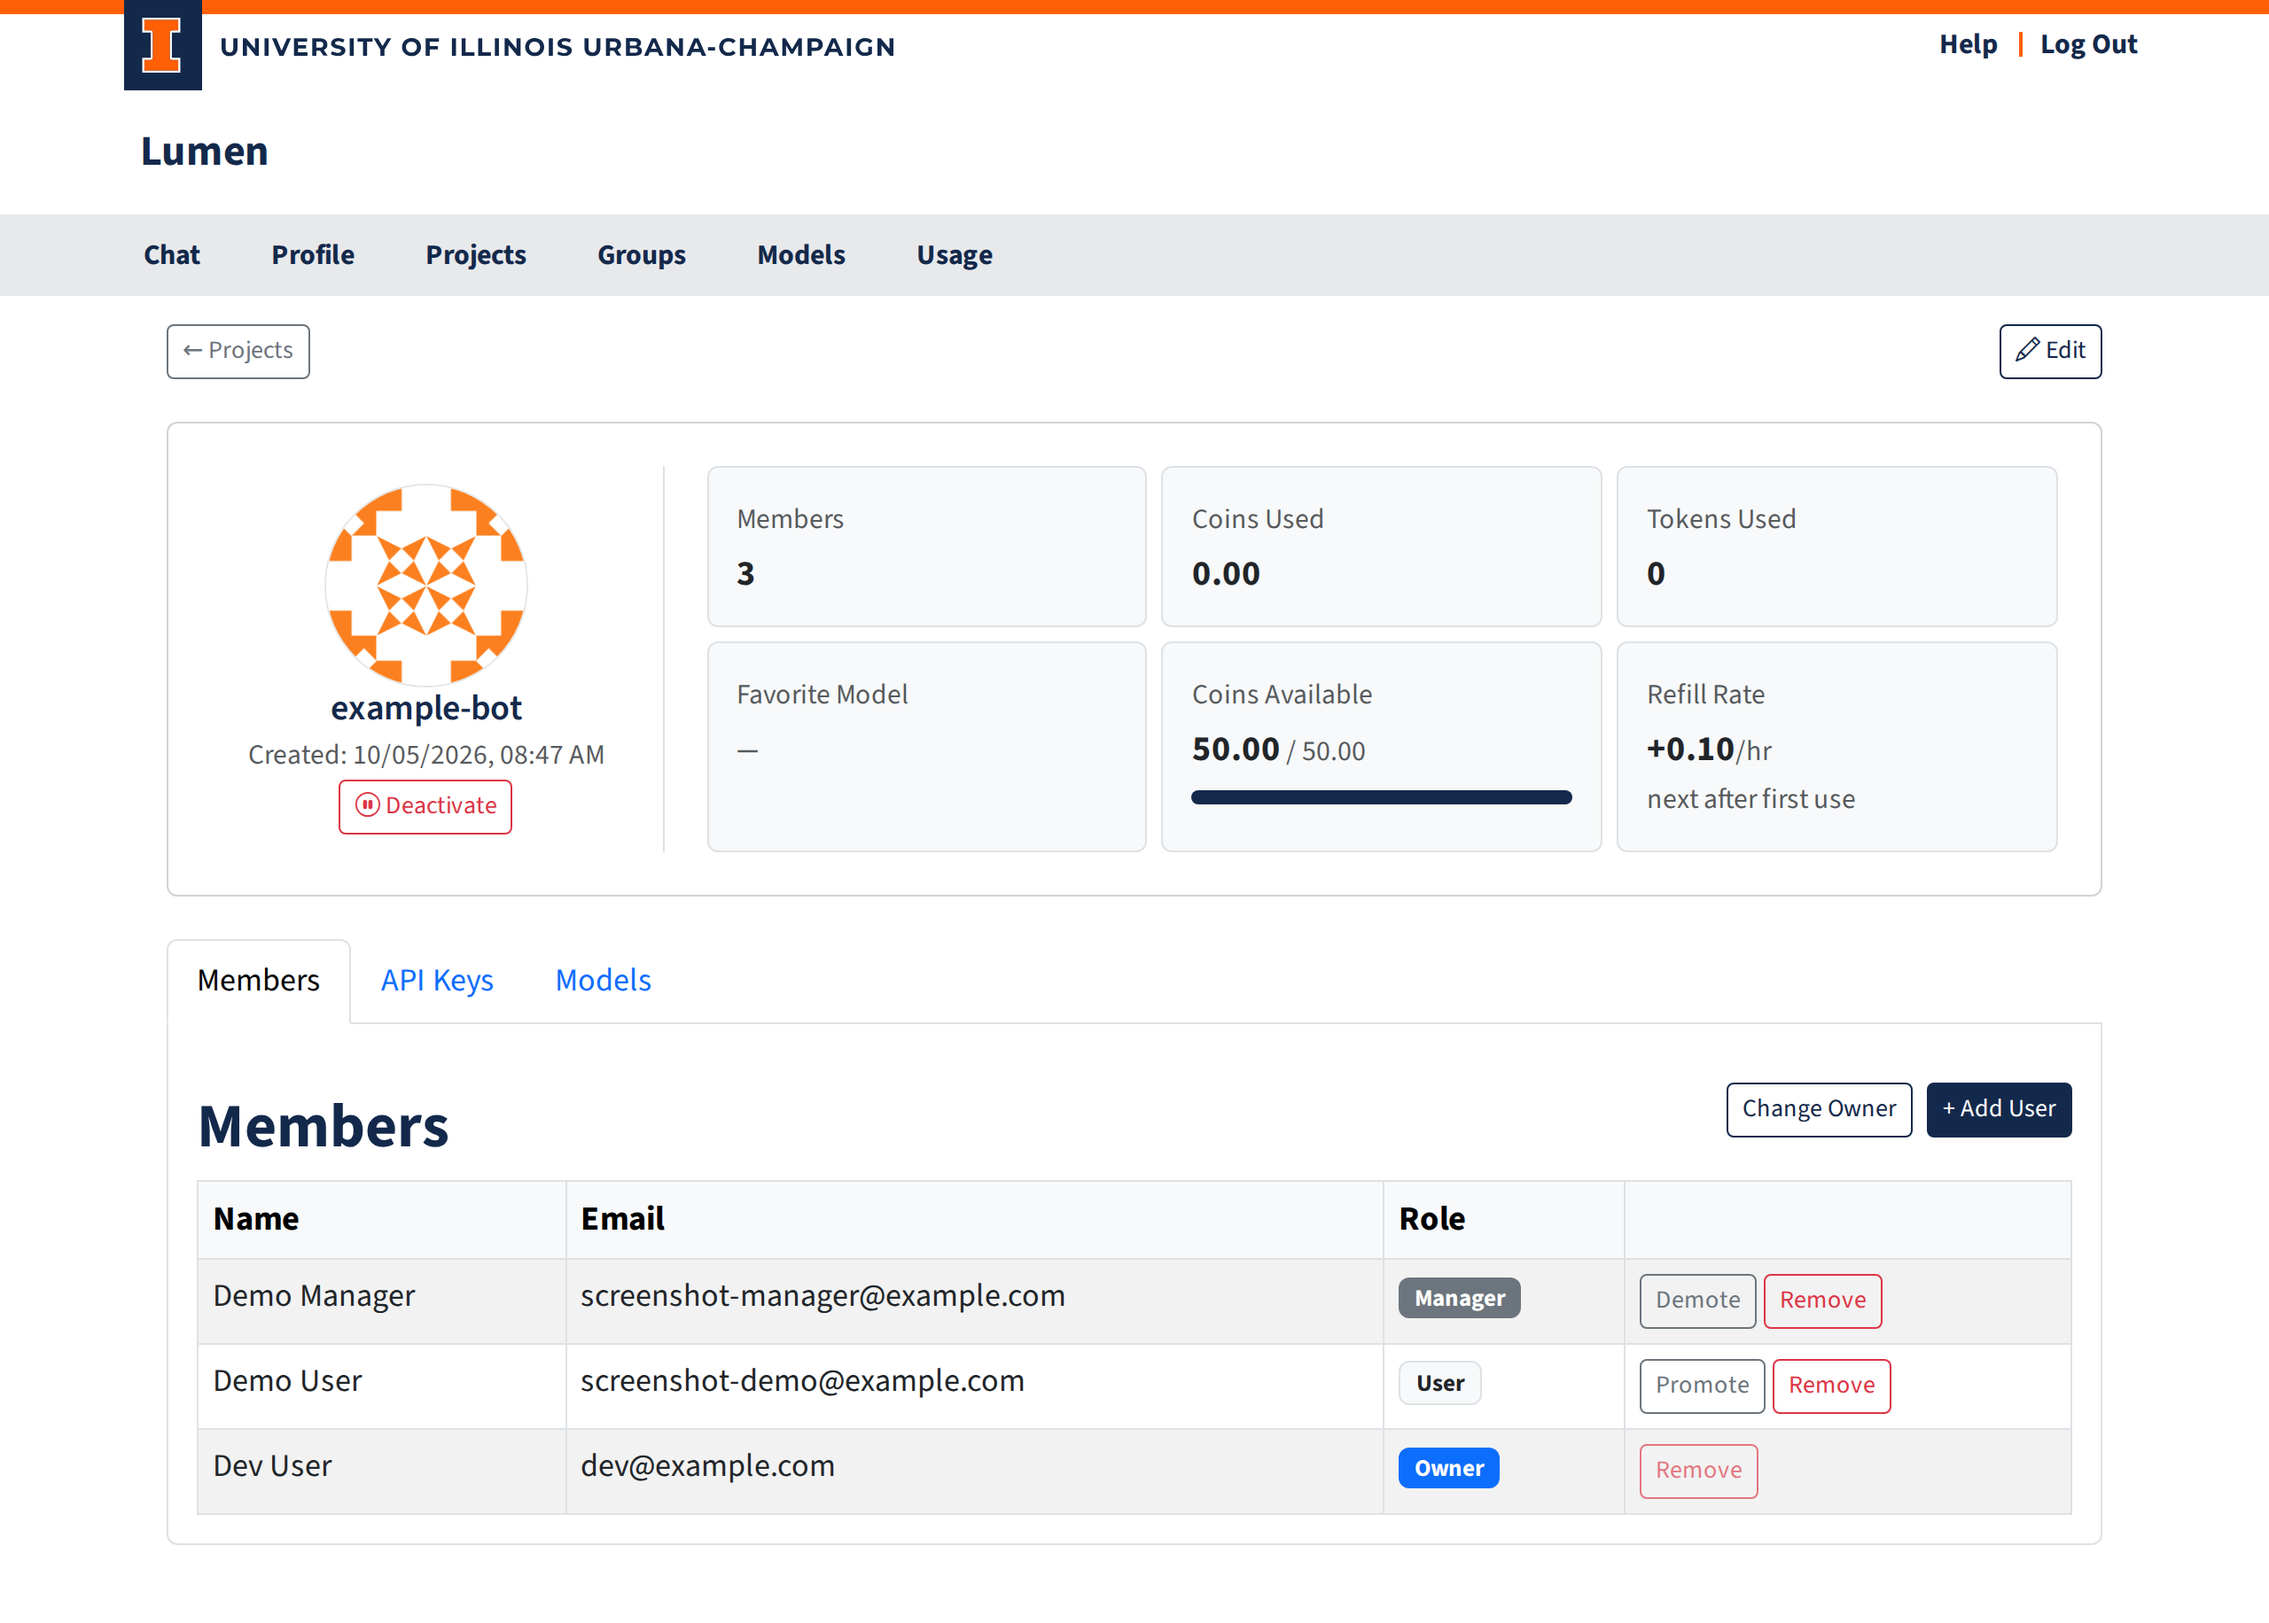
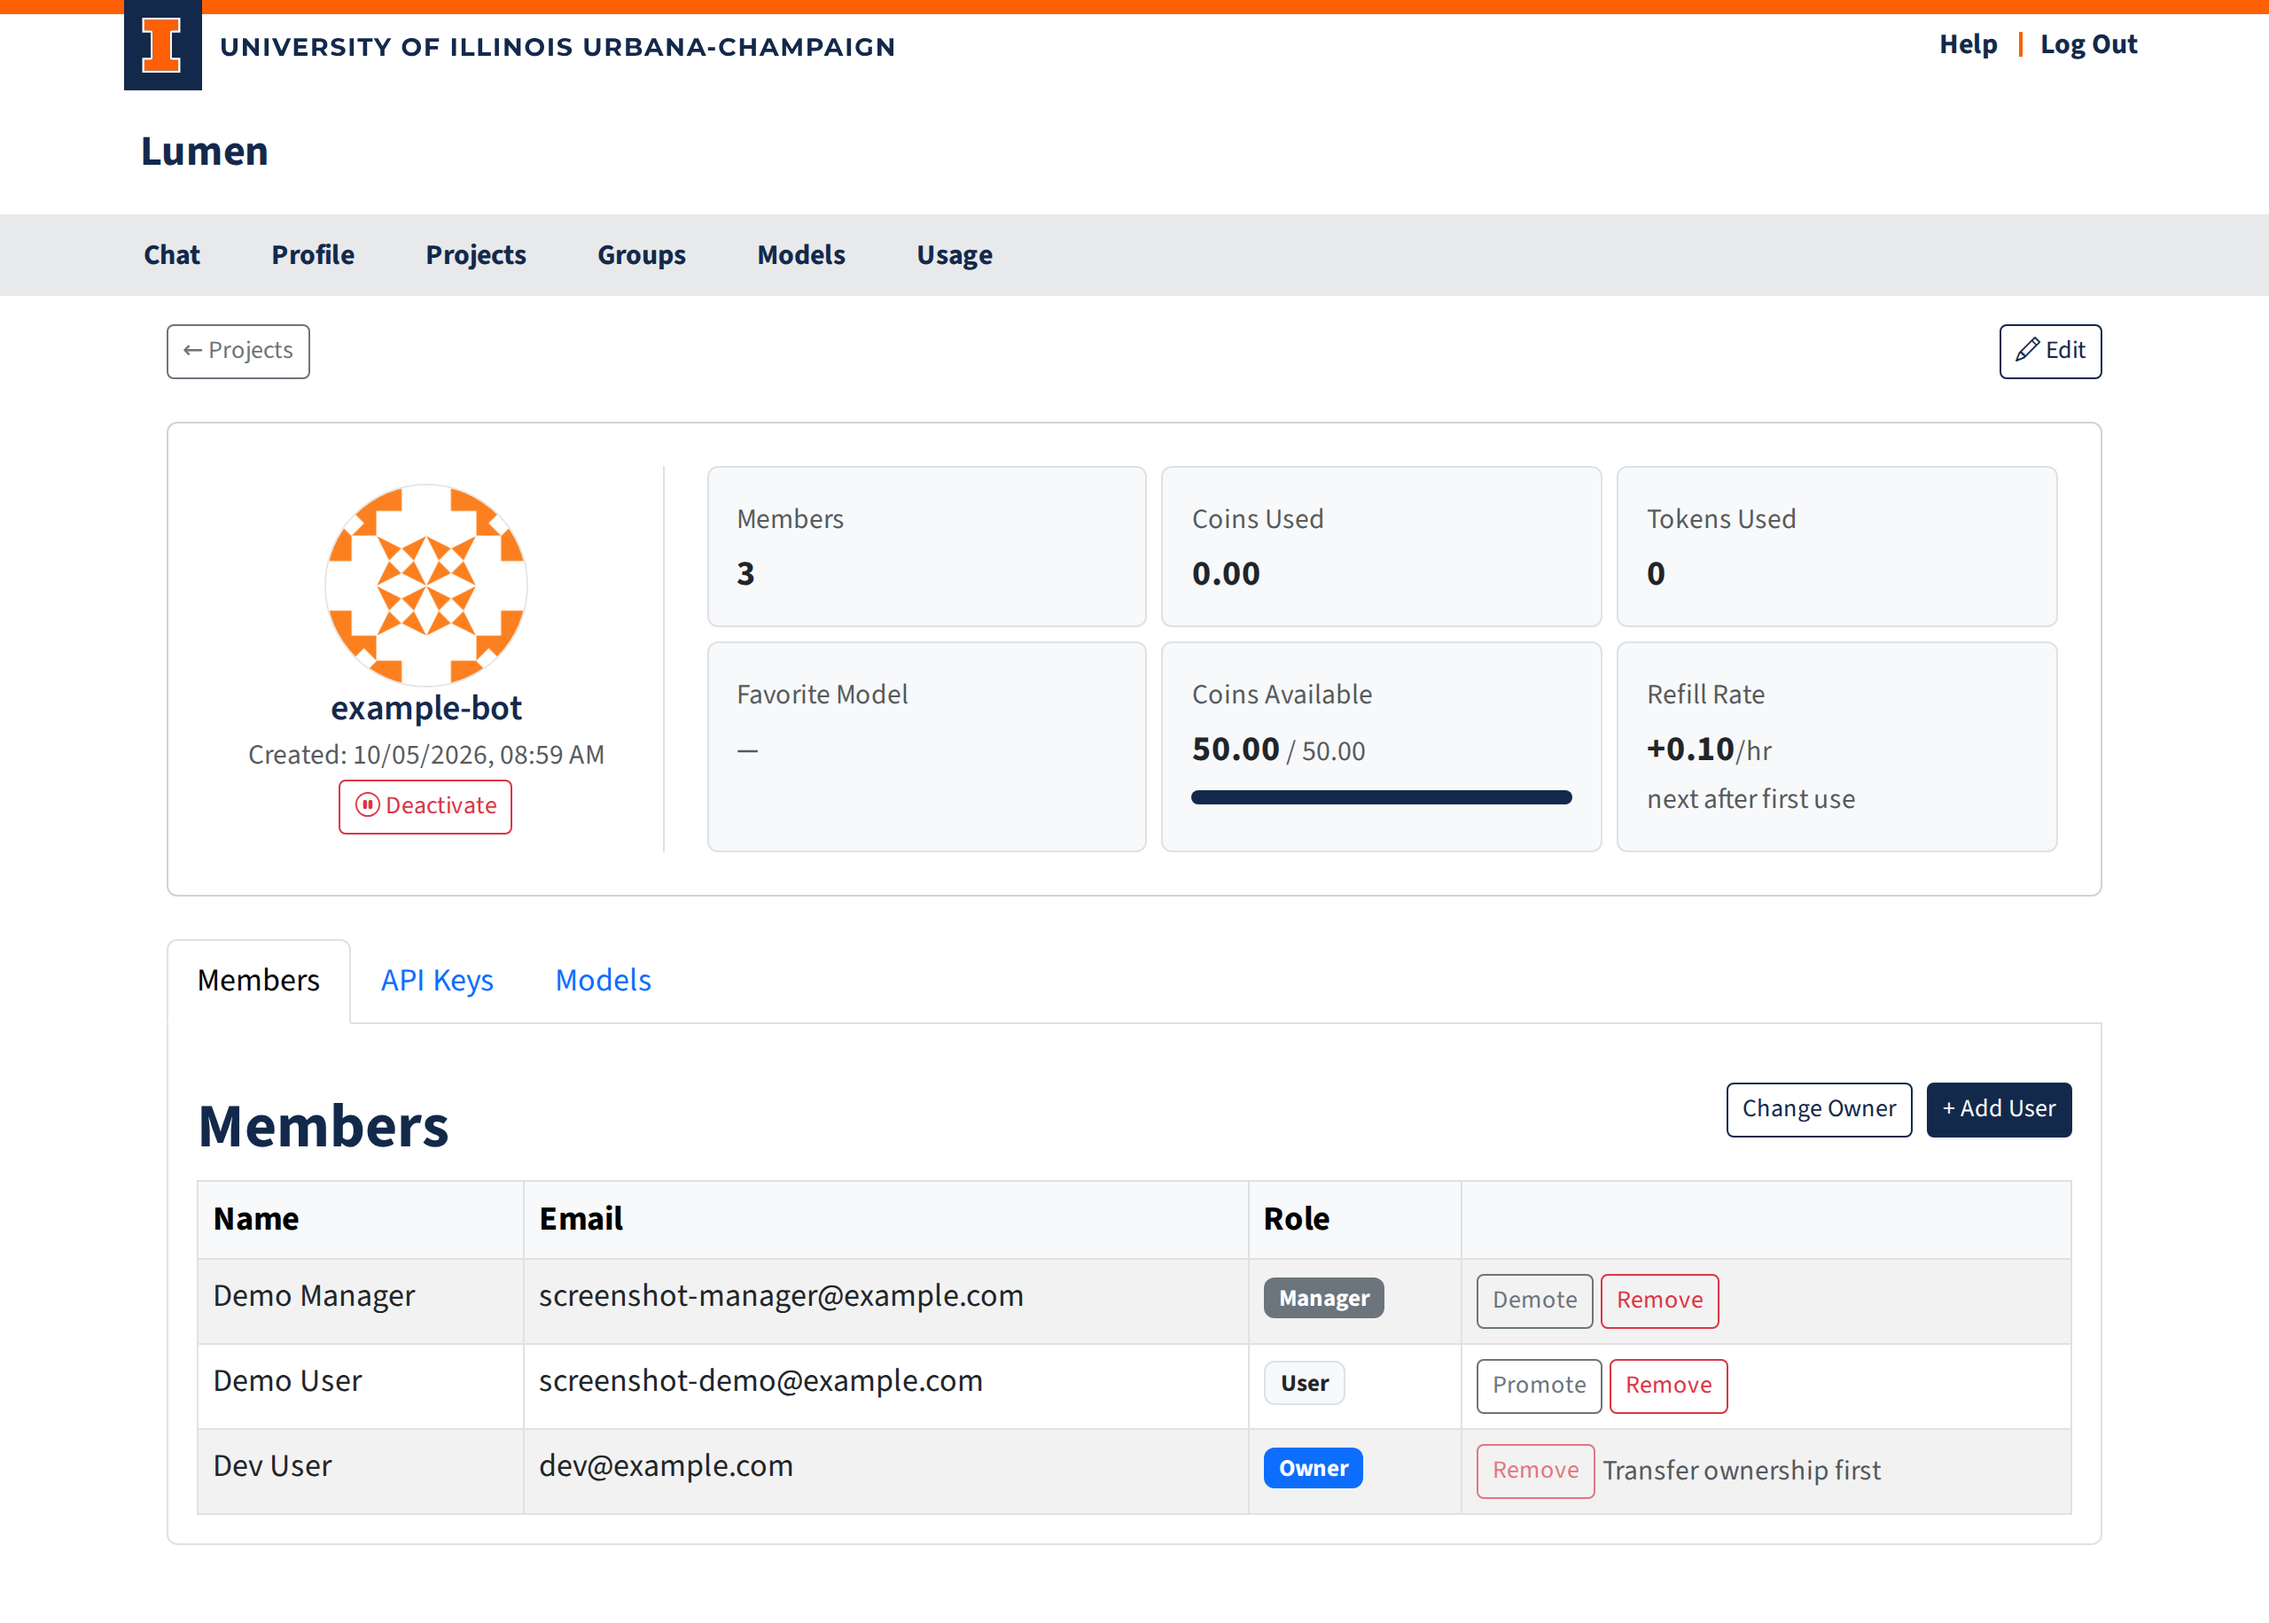
RK-15 Show a visible reason on the owner's disabled Remove

diff --git a/lumen/templates/project_detail.html b/lumen/templates/project_detail.html
@@ -178,11 +178,10 @@
         <td>
           <div class="d-flex gap-1 align-items-center">
             {% if role == "owner" %}
-            <span class="d-inline-block" tabindex="0" data-bs-toggle="tooltip" data-bs-placement="top"
-                  title="Transfer ownership before removing">
-              <button class="btn btn-sm btn-outline-danger" disabled
-                      aria-label="Cannot remove owner {{ member.name }}">Remove</button>
-            </span>
+            <button class="btn btn-sm btn-outline-danger" disabled
+                    aria-label="Cannot remove owner {{ member.name }}"
+                    aria-describedby="owner-remove-reason">Remove</button>
+            <span id="owner-remove-reason" class="text-muted small">Transfer ownership first</span>
             {% elif role == "manager" and can_manage %}
             <button class="btn btn-sm btn-outline-secondary"
                     onclick='setMemberRole({{ member.id }}, {{ member.name | tojson }}, "user")'

diff --git a/tests/routes/test_projects_routes.py b/tests/routes/test_projects_routes.py
@@ -1908,7 +1908,9 @@ def test_members_tab_owner_sees_all_actions(client, mixed_members):
         "Demote Second User to user", "Remove Second User",
         "Promote Third User to manager", "Remove Third User",
     }
-    assert soup.find("button", attrs={"aria-label": "Cannot remove owner Owner of test-svc"}).has_attr("disabled")
+    owner_remove = soup.find("button", attrs={"aria-label": "Cannot remove owner Owner of test-svc"})
+    assert owner_remove.has_attr("disabled")
+    assert soup.find(id=owner_remove["aria-describedby"]).get_text(strip=True) == "Transfer ownership first"
 
 
 def test_members_tab_admin_sees_owner_actions(admin_client, mixed_members):

diff --git a/docs/projects/projects-detail.md b/docs/projects/projects-detail.md
@@ -41,7 +41,7 @@ Everyone who can open the project is a member, and every member has one role. Th
 
 ### Removing a Member
 
-Click **Remove** next to the member. Managers can remove users; only the owner or an admin can remove managers. The owner's **Remove** button is always disabled: transfer ownership first.
+Click **Remove** next to the member. Managers can remove users; only the owner or an admin can remove managers. The owner's **Remove** button is always disabled, with a note to transfer ownership first.
 
 ### Promoting and Demoting (owner or admin)
 
